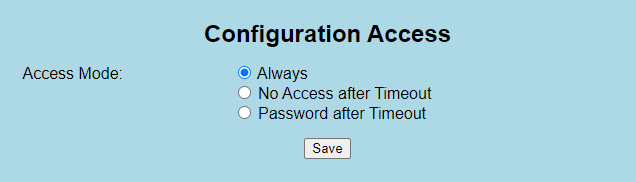
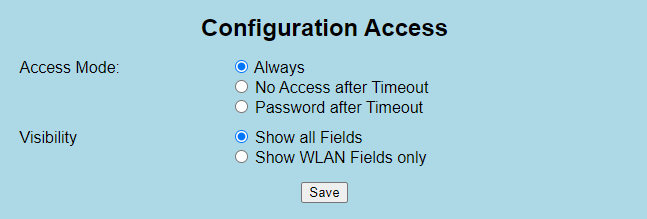
update new features: WLAN SSID selection; config sections visibility

diff --git a/blukiiHub/configuration_en.md b/blukiiHub/configuration_en.md
@@ -39,12 +39,18 @@ Settings for connecting to a WLAN network.
 Settings for limiting the **Access** to this configuration website.
 ![Configuration Access](images/config_access.png)
 
-* **Always**: the configuration website is always accessible for everyone in the local network(default).
+* **Access Mode** 
+  * **Always**: the configuration website is always accessible for everyone in the local network(default).
 
-* **No Access after Timeout**: the configuration website is accessible for everyone as long as the **Timeout (in seconds)** is not expired. The Timeout is restarted after startup or short press of push button.
+  * **No Access after Timeout**: the configuration website is accessible for everyone as long as the **Timeout (in seconds)** is not expired. The Timeout is restarted after startup or short press of push button.
 
-* **Password after Timeout**: the configuration website is accessible for everyone as long as the **Timeout (in seconds)** is not expired. After that the user has to insert the **Password** for configuration access. The Timeout will be restarted after startup or short press of push button.
+  * **Password after Timeout**: the configuration website is accessible for everyone as long as the **Timeout (in seconds)** is not expired. After that the user has to insert the **Password** for configuration access. The Timeout will be restarted after startup or short press of push button.
 
+* **Visibility**: 
+  * **Show all Fields**: all configuration fields are visible.
+
+  * **Show WLAN Fields only**: only the section **WLAN Credentials** is visible, all other sections are hidden. If this option is set you can access all fields by calling the configuration website with URL parameter /admin.
+  
 ### Data Processing
 
 Settings for scan and collection of blukii advertising data.

diff --git a/blukiiHub/networksetup_en.md b/blukiiHub/networksetup_en.md
@@ -15,7 +15,9 @@ If the WLAN Access Point is active the red LED is continuously on.
 
 If connected to the WLAN Access Point you can access the blukii Hub Configuration Website via <http://192.168.4.1/>.
 
-![Alt text](images/config_wlan.png)
+![WLAN Credentials](images/config_wlan_list.png)
+
+The SSID selection shows the networks that was available when the blukii Hub has started. If the target network is not in list, you can insert a SSID name after clicking the edit icon ![SSID Toggle](images/ssid_toggle.svg).
 
 Insert your WLAN credentials and save it.
 
